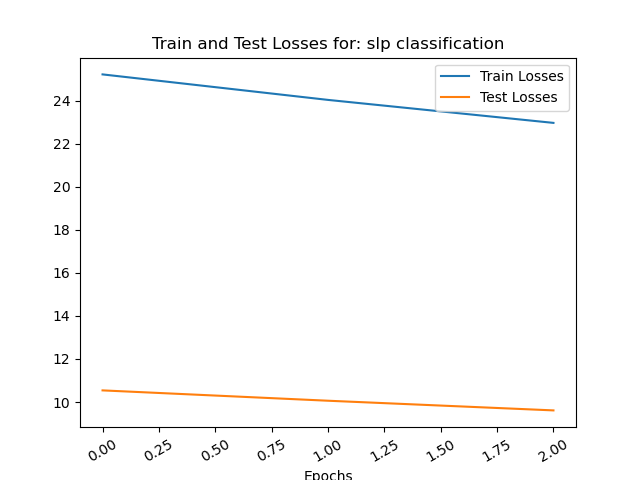
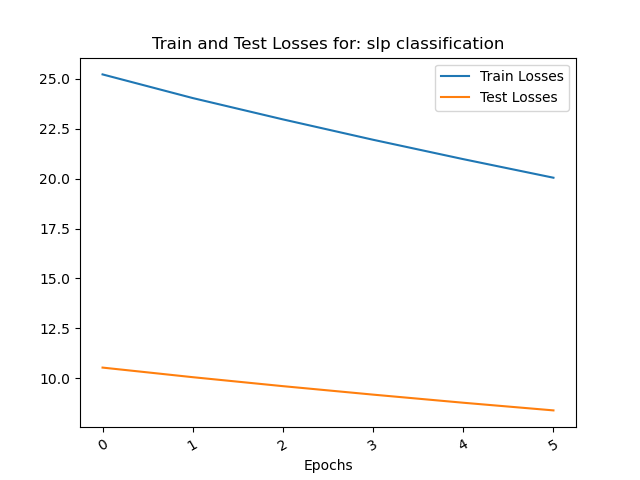
loading in models now possible, pipeline for model is complete. can work on merging branches downstream to get the final set of code

diff --git a/pipeline_redo/train.py b/pipeline_redo/train.py
@@ -2,6 +2,7 @@ import torch
 import logging 
 from model_metrics import ModelMetrics, LossFunc, Levels
 from model_state import ModelState
+from utils import Utils 
 
 from torch.optim import Adam 
 from torch.nn import CrossEntropyLoss, MSELoss 
@@ -57,6 +58,7 @@ class Train:
         self.logger.info('device used: ' + str(self.args.device) ) # torch.cuda.current_device() gives integer 
 
         ''' data and model setting up '''
+        self.logger.debug('setting up data, model, optimizer, loss function ')
         train_dataloader, test_dataloader = data 
 
         # place data on device when iterating, this places batch on device to save memory
@@ -76,19 +78,32 @@ class Train:
 
 
         ''' model metrics and state are initialized ''' 
-        # initlalize model metrics 
+        self.logger.debug('initializing model metrics and model state class ')
+        # initlalize model metrics, these are never affected by a model being loaded in 
+            # these are specific to 1 call fo this function 
         mode = LossFunc.MSE if loss_func.__class__.__name__ == 'MSELoss' else LossFunc.CrossEntropyLoss
         modelmetrics= ModelMetrics(self.args, mode = mode )
         modelmetrics.initialize_metrics()
-        modelmetrics.initalize_metric_trackers()
 
-         # initialize model state 
+        # initialize model state 
         model_state_class = ModelState(self.args) # init to empty 
+
+        # if needed, read in loaded model and optim state_dicts 
+        if self.args.load_model: 
+            self.logger.debug('loading in model from: ' + self.args.model_filename)
+            loaded_model = Utils.load_model(self.args.model_filename)
+            loaded_model_state = model_state_class.loading_model_state(loaded_model)
+            # update state dicts 
+            model.load_state_dict(model_state_class.model_state_dict)
+            optimizer.load_state_dict(model_state_class.optimizer_state_dict)
+            self.logger.info('model loaded in from: ' + self.args.model_filename)
 
 
         ''' train loop '''
+        self.logger.debug('starting training loop')
         ### do training loop 
         for epoch in range(self.args.epochs): 
+            modelmetrics.initalize_metric_trackers() # reset metrics for this epoch 
 
             model.train()
             # loop through batches from dataloader 
@@ -98,7 +113,7 @@ class Train:
                 
                 pred = model(x)
 
-                if loss_func.__class__.__name__ == 'CrossEntropyLoss': 
+                if mode == LossFunc.CrossEntropyLoss: # if loss_func.__class__.__name__ == 'CrossEntropyLoss': 
                     y= y.flatten() # for CEL
                 loss = loss_func(pred, y) 
                 
@@ -116,7 +131,7 @@ class Train:
 
                     pred = model(x)
 
-                    if loss_func.__class__.__name__ == 'CrossEntropyLoss': 
+                    if mode == LossFunc.CrossEntropyLoss: # if loss_func.__class__.__name__ == 'CrossEntropyLoss': 
                         y= y.flatten() # for CEL
                     loss = loss_func(pred,y)
 
@@ -126,10 +141,11 @@ class Train:
 
             modelmetrics.update_epoch_level() # calculate the metrics at the end of this epoch 
             print('Epoch', epoch, 'Train Loss', modelmetrics.epoch_loss, 'Test Loss', modelmetrics.epoch_loss_test)
-            modelmetrics.initalize_metric_trackers() # reset metrics for next epoch 
+            
 
 
         model_state = model_state_class.preserve_model_state(model, optimizer, modelmetrics)
+        self.logger.info('model state creates/updated with training information') 
 
         self.logger.debug('model training complete ')
         return model_state 

diff --git a/pipeline_redo/argument_parser.py b/pipeline_redo/argument_parser.py
@@ -44,6 +44,7 @@ modelhelper.add_argument('--model_filename', default = 'model_info/saved_models/
 train= parser.add_argument_group(title = 'args for train.py training loop ')
 train.add_argument('--lr', default = .0001, type = float)
 train.add_argument('--epochs', default = 3, type= int )
+train.add_argument('--load_model', action= 'store_true', help= 'call if wanting to load in model_filename, continue training, and save model to model_filename')
 
 models = parser.add_argument_group(title = 'args for models.py')
 models.add_argument('--k_value', default = 11, type = int, help = 'int > 0, number of clusters for kmeans models')

diff --git a/pipeline_redo/model_state.py b/pipeline_redo/model_state.py
@@ -59,7 +59,7 @@ class ModelState:
         self.optimizer_state_dict= optimizer.state_dict()
 
         self.epochs += len(modelmetrics.losses) ##### have to deal with this... 
-        self.loss_func_mode= modelmetrics.mode 
+        self.loss_func_mode= modelmetrics.mode # string, not instance of LossFunc 
 
         self.losses.extend(modelmetrics.losses )
         self.testlosses.extend(modelmetrics.losses_test )

diff --git a/pipeline_redo/model_metrics.py b/pipeline_redo/model_metrics.py
@@ -20,6 +20,7 @@ class ModelMetrics:
     class to deal with creating and tracking model training metrics
     - all of this functionality can be kept in train, but this makes the code more flexible and easy to understand 
     - tracks various metrics 
+    
     - initialized in Train.train <- this class is unique to each call of train()
         - does not cover info gained from loading in a model 
 

diff --git a/pipeline_redo/model_helper.py b/pipeline_redo/model_helper.py
@@ -106,7 +106,7 @@ class ModelHelper:
         self.logger.info('completed training for: '+self.args.model_type)
         return model_state 
     
-    #### -- models are below 
+    #### -- models are below, calls train() from these functoins 
     
     def autoencoder_kmeans_fnn_chosen(self) -> dict: # model state  
         '''
